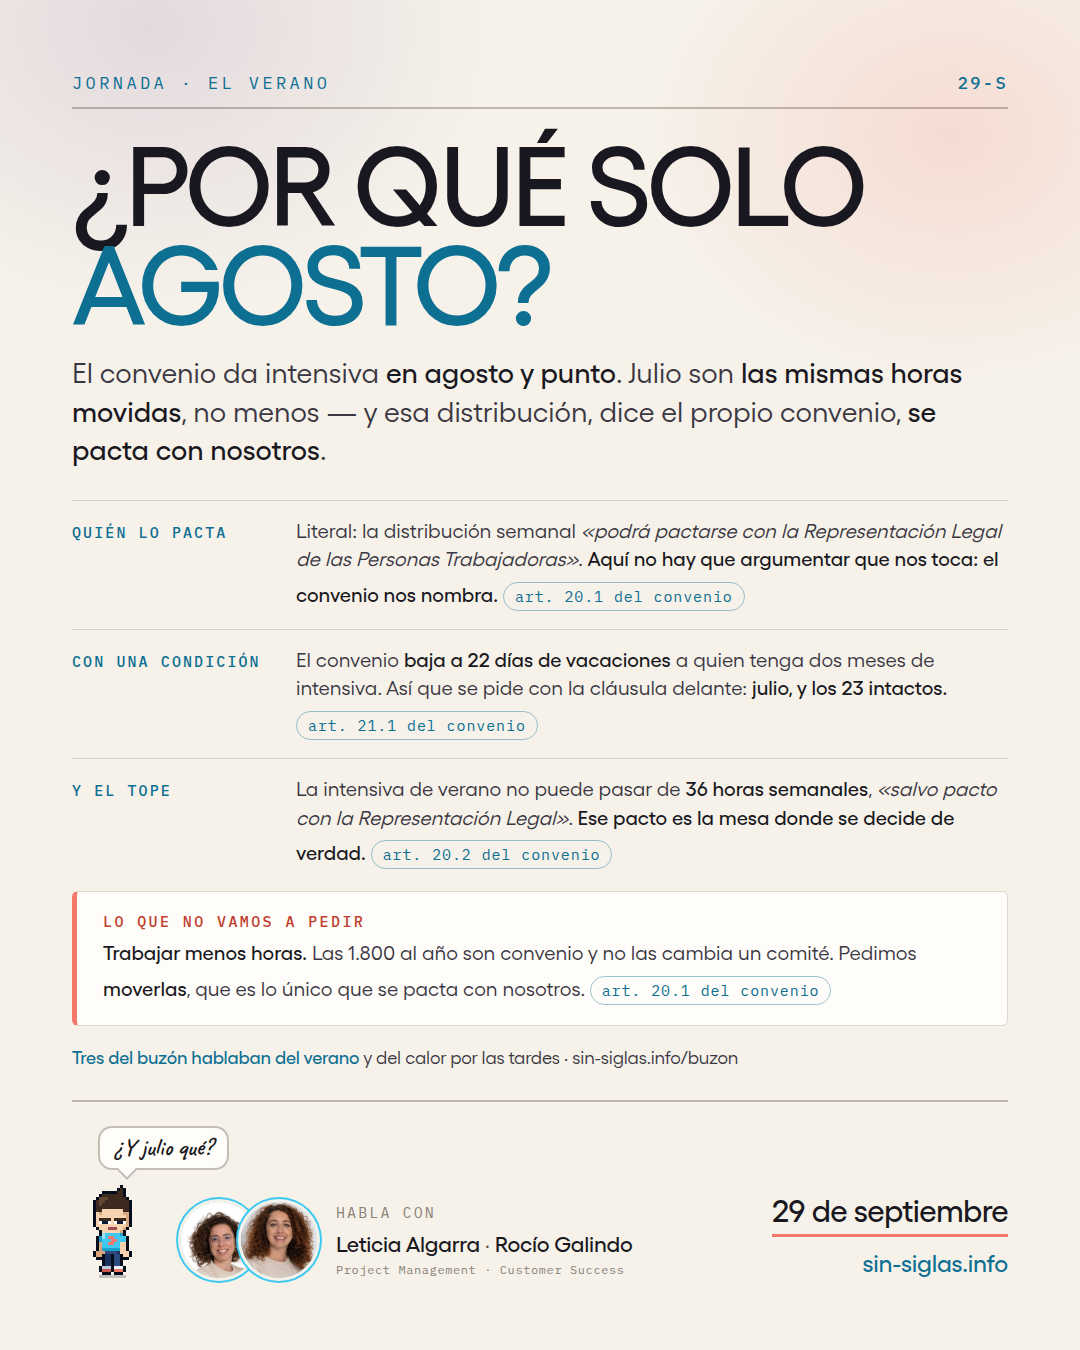
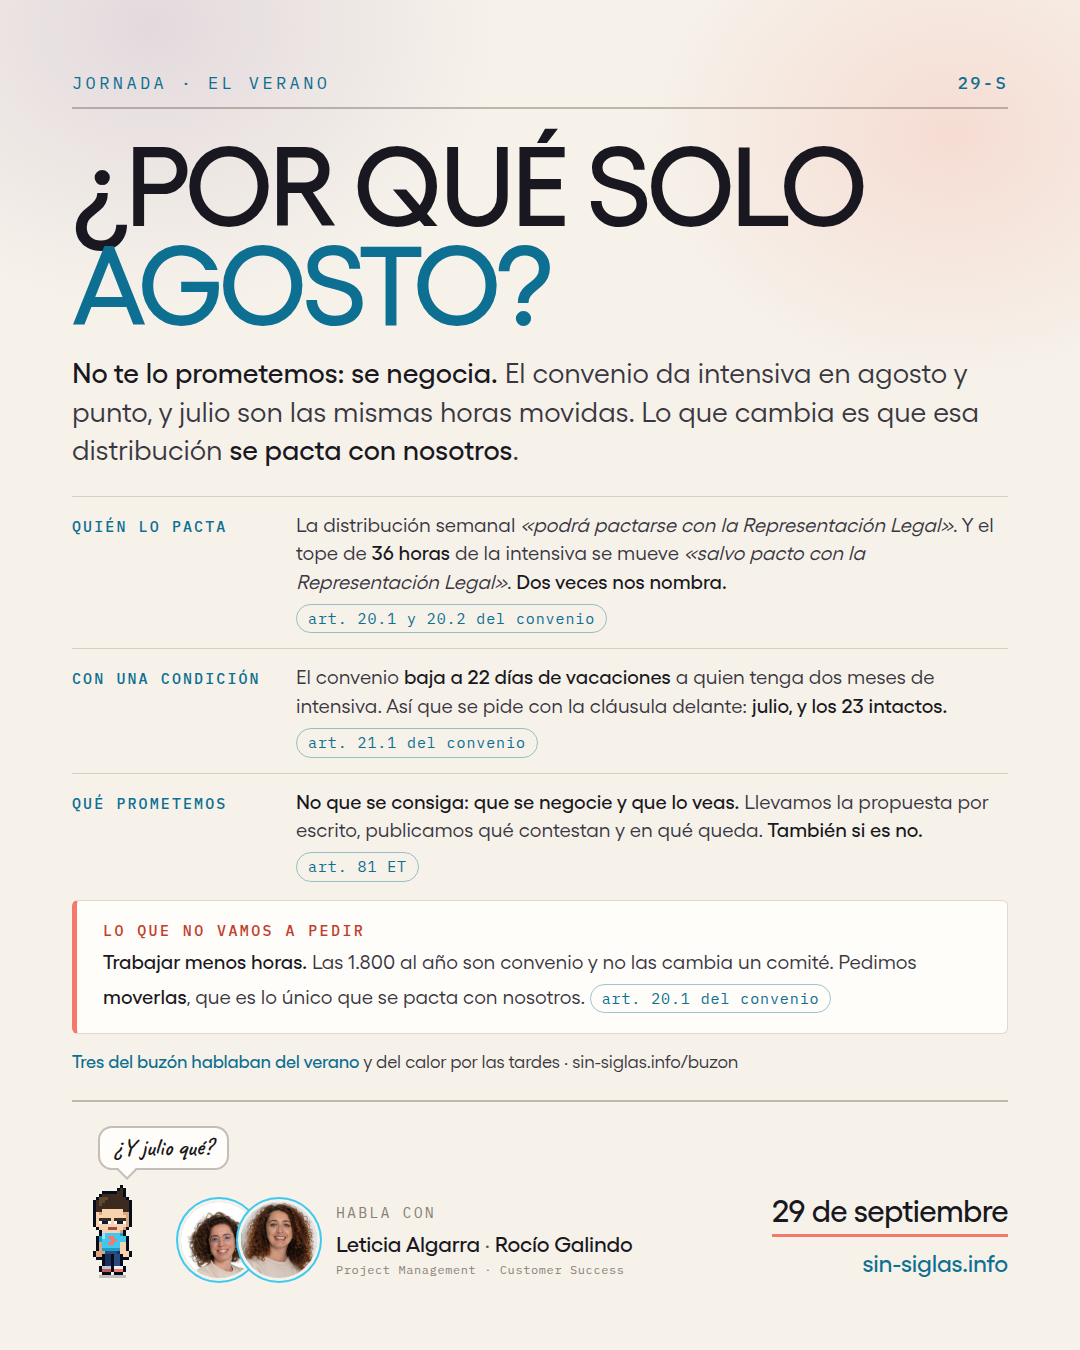
El de julio no promete julio: promete negociarlo y contarlo
El cartel explicaba bien el mecanismo del convenio y no decía en ningún
sitio qué prometemos, que es lo único que nos distingue. Se leía como una
propuesta de resultado.

Ahora la bajada abre con el marco —«no te lo prometemos: se negocia»— y
la tercera fila es el compromiso en vez del tope: «no que se consiga, que
se negocie y que lo veas. Llevamos la propuesta por escrito, publicamos
qué contestan y en qué queda. También si es no».

El tope de las 36 horas se junta con el art. 20.1 porque son el mismo
mecanismo, y así queda mejor dicho: la distribución semanal «podrá
pactarse con la Representación Legal» y el tope se mueve «salvo pacto con
la Representación Legal». Dos veces nos nombra el convenio en el mismo
artículo.

diff --git a/carteles/carteles.html b/carteles/carteles.html
@@ -774,10 +774,10 @@ body.diptico .cartel.elegido + .cartel.elegido{box-shadow:inset 2px 0 0 var(--li
 #c23 .pie{margin-top:auto}
 
 #c24 .bajada{margin-top:20px}
-#c24 .puertas{margin-top:30px;gap:18px}
-#c24 .puertas li{padding-top:16px}
-#c24 .limite{margin-top:22px}
-#c24 .recibo{margin-top:20px}
+#c24 .puertas{margin-top:26px;gap:15px}
+#c24 .puertas li{padding-top:14px}
+#c24 .limite{margin-top:18px}
+#c24 .recibo{margin-top:16px}
 #c24 .pie{margin-top:auto}
 </style>
 </head>
@@ -2027,16 +2027,16 @@ body.diptico .cartel.elegido + .cartel.elegido{box-shadow:inset 2px 0 0 var(--li
 
   <h1 class="titular titular--corto">¿Por qué solo<em>agosto?</em></h1>
   <p class="bajada bajada--ancha">
-    El convenio da intensiva <b>en agosto y punto</b>. Julio son <b>las mismas horas movidas</b>, no
-    menos — y esa distribución, dice el propio convenio, <b>se pacta con nosotros</b>.
+    <b>No te lo prometemos: se negocia.</b> El convenio da intensiva en agosto y punto, y julio son
+    las mismas horas movidas. Lo que cambia es que esa distribución <b>se pacta con nosotros</b>.
   </p>
 
   <ul class="puertas">
     <li>
       <strong>Quién lo pacta</strong>
-      <p>Literal: la distribución semanal <i>«podrá pactarse con la Representación Legal de las
-        Personas Trabajadoras»</i>. <b>Aquí no hay que argumentar que nos toca: el convenio nos
-        nombra.</b> <span class="ley">art. 20.1 del convenio</span></p>
+      <p>La distribución semanal <i>«podrá pactarse con la Representación Legal»</i>. Y el tope de
+        <b>36 horas</b> de la intensiva se mueve <i>«salvo pacto con la Representación Legal»</i>.
+        <b>Dos veces nos nombra.</b> <span class="ley">art. 20.1 y 20.2 del convenio</span></p>
     </li>
     <li>
       <strong>Con una condición</strong>
@@ -2045,10 +2045,10 @@ body.diptico .cartel.elegido + .cartel.elegido{box-shadow:inset 2px 0 0 var(--li
         <span class="ley">art. 21.1 del convenio</span></p>
     </li>
     <li>
-      <strong>Y el tope</strong>
-      <p>La intensiva de verano no puede pasar de <b>36 horas semanales</b>, <i>«salvo pacto con la
-        Representación Legal»</i>. <b>Ese pacto es la mesa donde se decide de verdad.</b>
-        <span class="ley">art. 20.2 del convenio</span></p>
+      <strong>Qué prometemos</strong>
+      <p><b>No que se consiga: que se negocie y que lo veas.</b> Llevamos la propuesta por escrito,
+        publicamos qué contestan y en qué queda. <b>También si es no.</b>
+        <span class="ley">art. 81 ET</span></p>
     </li>
   </ul>
 
